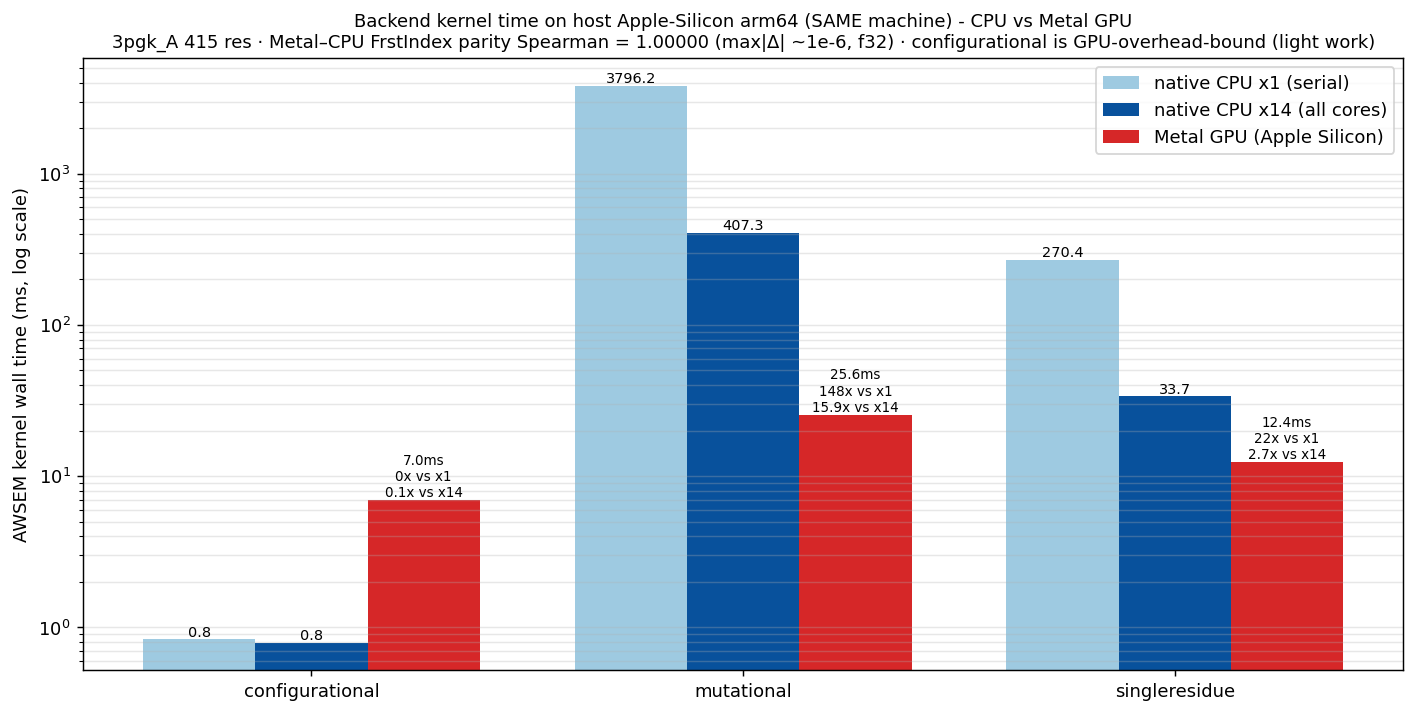
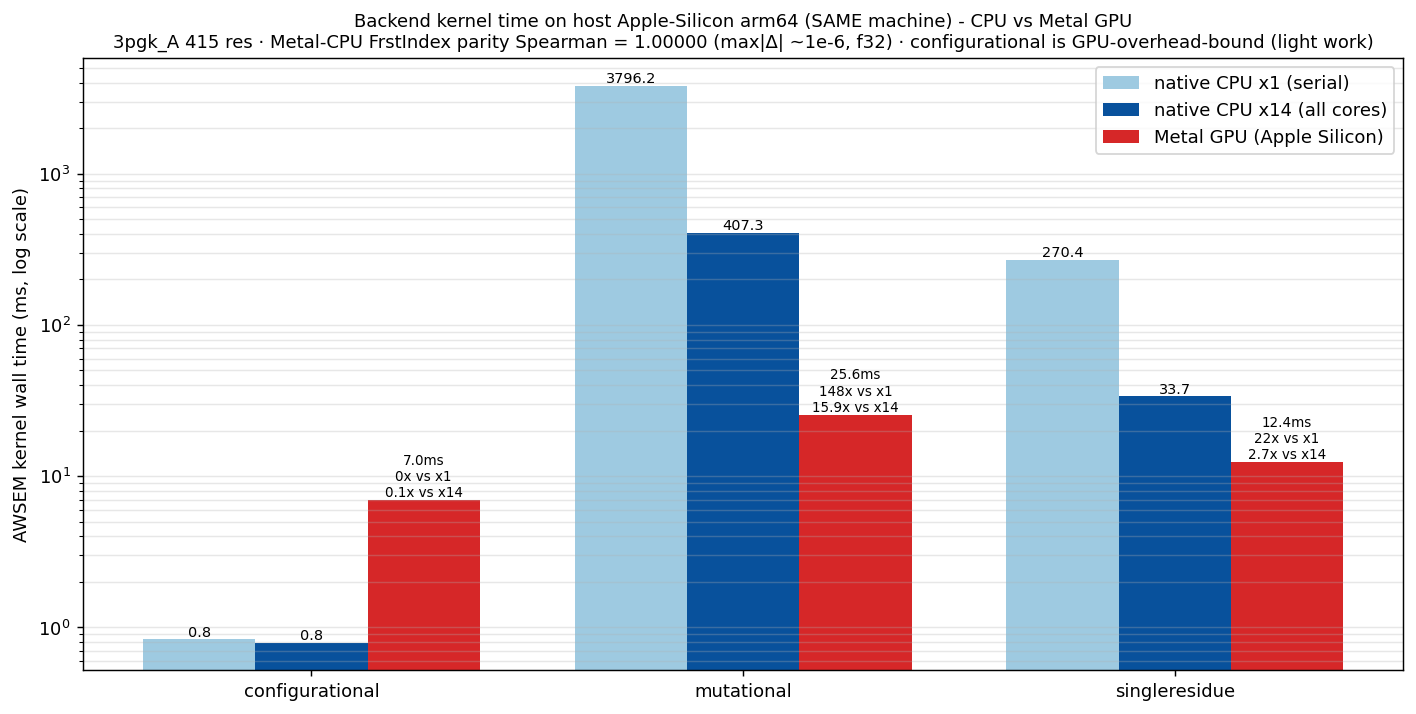
Strip remaining en dash from Metal figure title

Changed region(s): [[0.4661, 0.0308, 0.9633, 0.0924], [0.0932, 0.0308, 0.435, 0.0924]]

diff --git a/native/bench/plot_matrix.py b/native/bench/plot_matrix.py
@@ -112,7 +112,7 @@ def fig_metal(metal_recs, out):
     ax.set_yscale("log"); ax.set_xticks(list(x)); ax.set_xticklabels(modes)
     ax.set_ylabel("AWSEM kernel wall time (ms, log scale)")
     ax.set_title("Backend kernel time on host Apple-Silicon arm64 (SAME machine) - CPU vs Metal GPU\n"
-                 "3pgk_A 415 res · Metal–CPU FrstIndex parity Spearman = 1.00000 (max|Δ| ~1e-6, f32) · "
+                 "3pgk_A 415 res · Metal-CPU FrstIndex parity Spearman = 1.00000 (max|Δ| ~1e-6, f32) · "
                  "configurational is GPU-overhead-bound (light work)", fontsize=10)
     ax.grid(True, axis="y", alpha=0.3, which="both"); ax.legend()
     fig.tight_layout(); fig.savefig(out, dpi=130, bbox_inches="tight")
